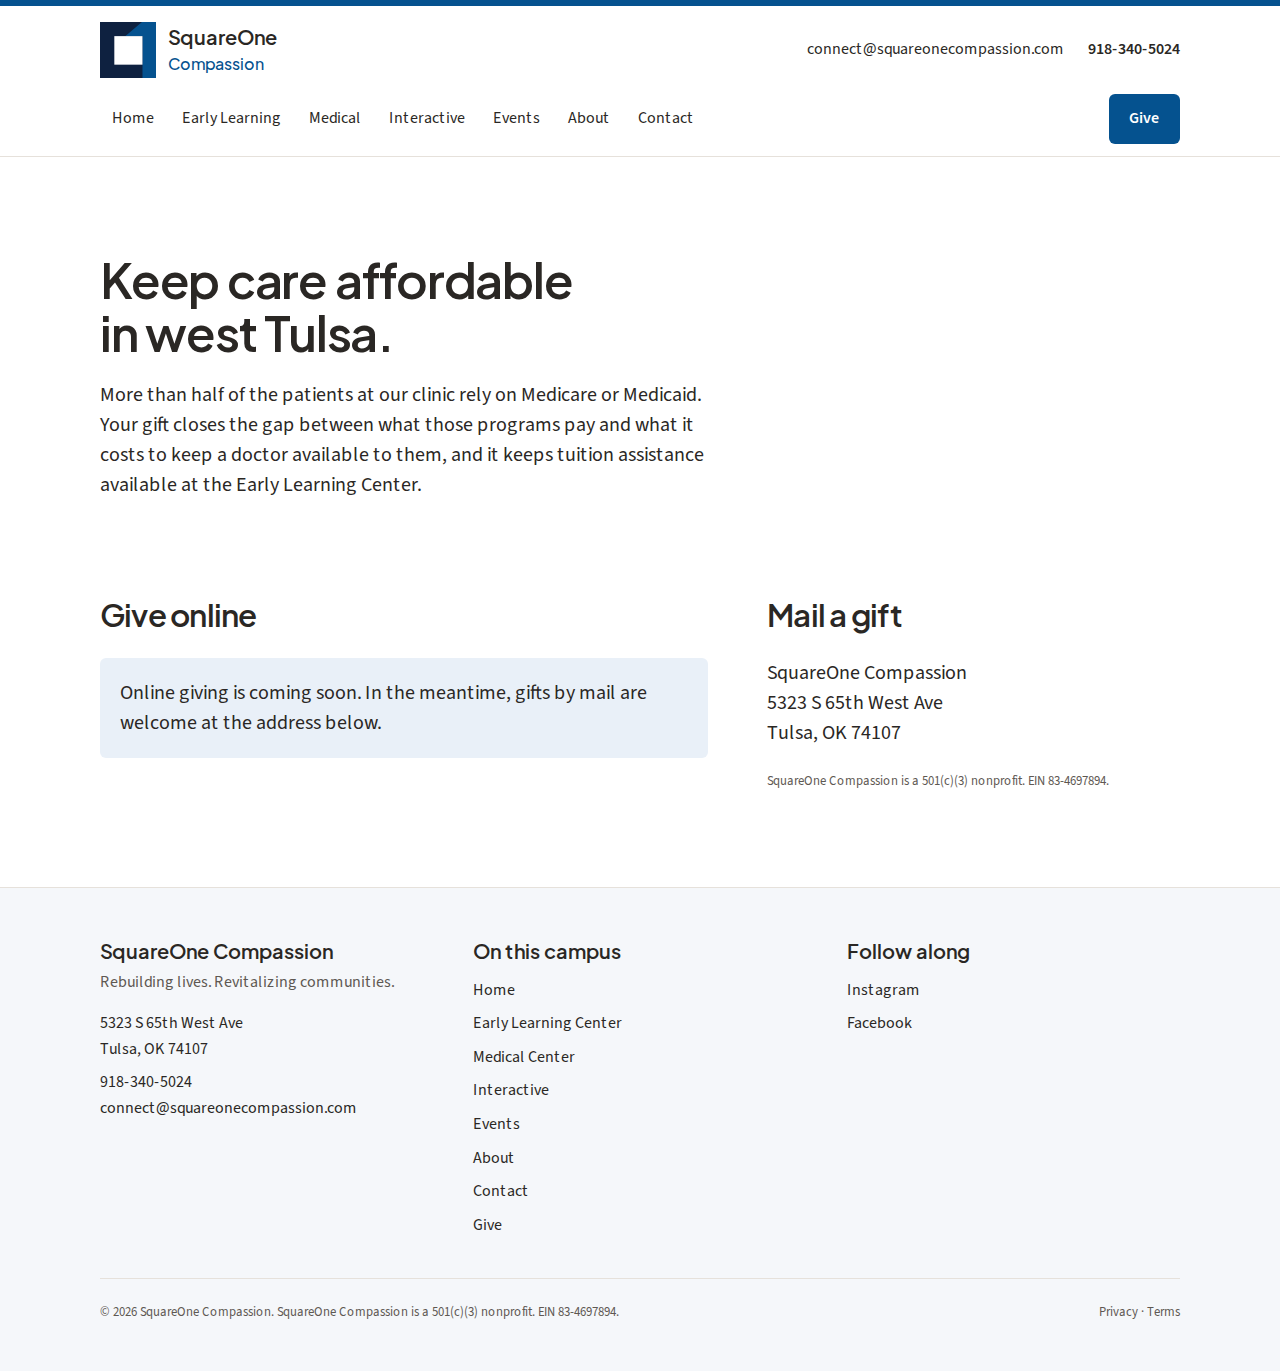
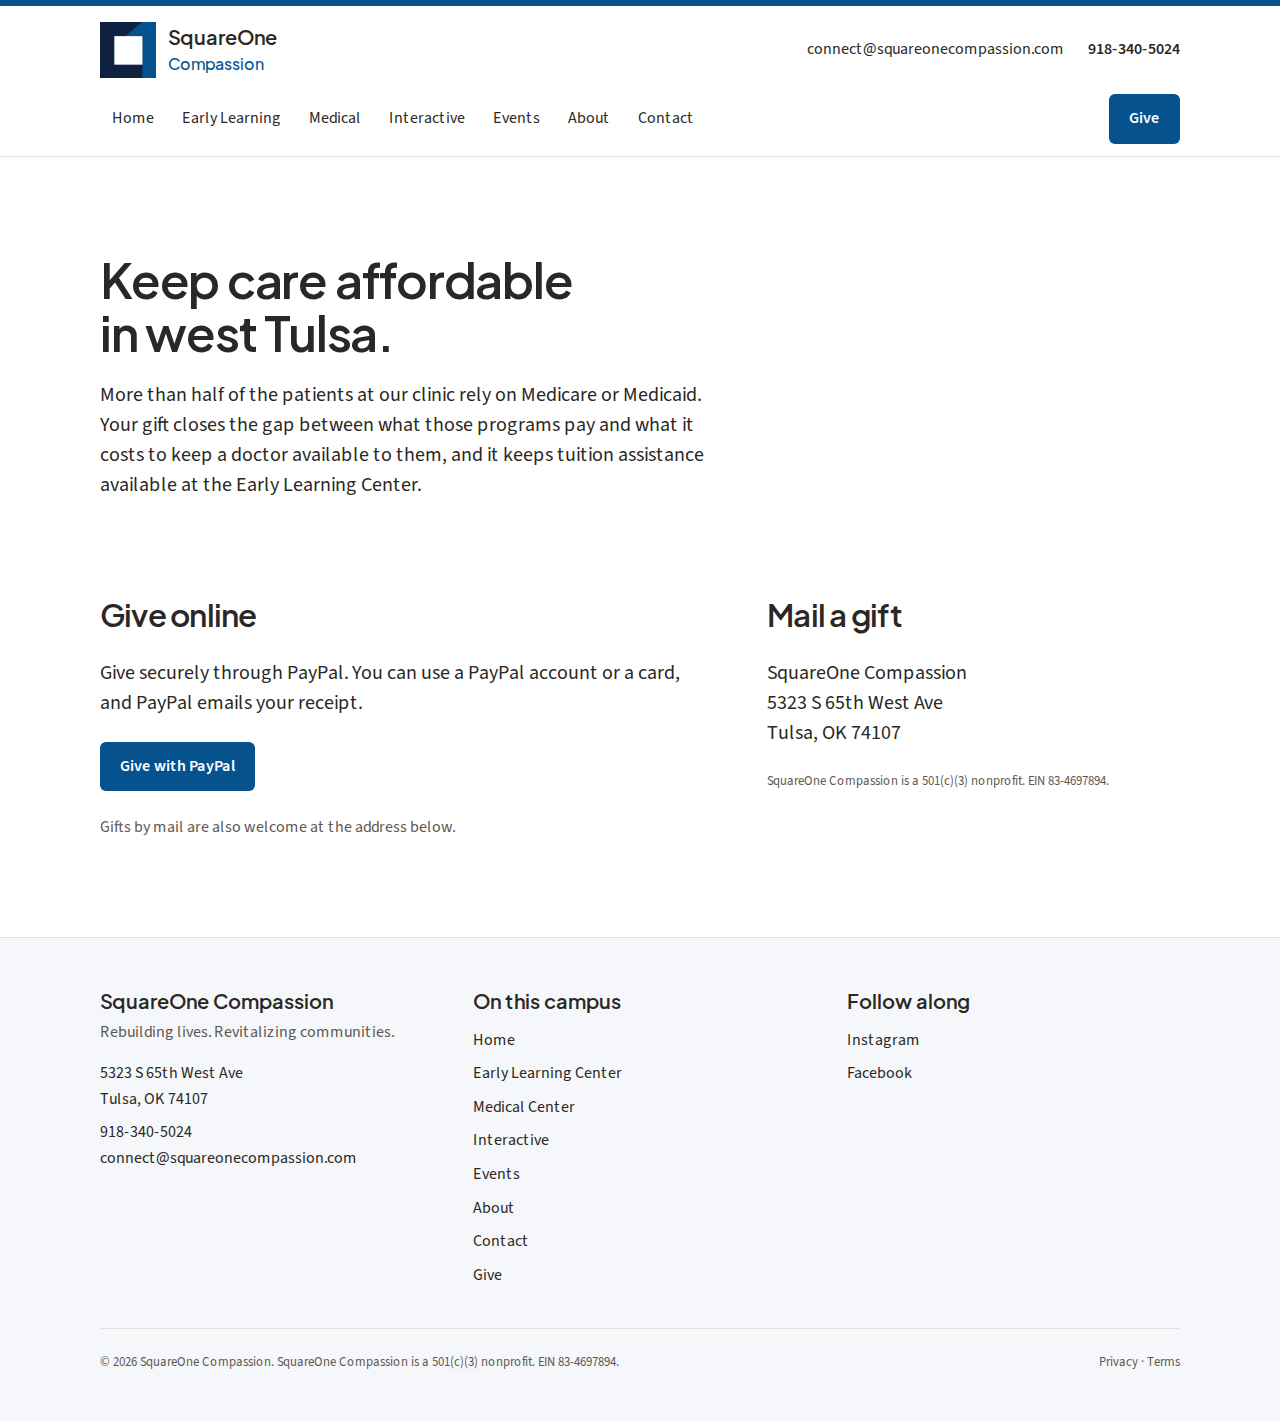
Add a Give with PayPal button to the Give page
Uses SquareOne's PayPal hosted payment link. Without Stripe keys the page
shows the PayPal button as the online giving option; with Stripe
configured, PayPal appears as a secondary link under the Stripe form.

Claude-Session: https://claude.ai/code/session_01Dy1NBE1CDjARVuM4emY1ru

diff --git a/app/give/page.tsx b/app/give/page.tsx
@@ -22,9 +22,25 @@ export default function GivePage() {
             <h2 className="text-2xl">Give online</h2>
             <div className="mt-6">
               {online ? (
-                <DonateForm />
+                <>
+                  <DonateForm />
+                  <p className="mt-8 text-muted">
+                    Prefer PayPal?{' '}
+                    <a href={ORG.paypalUrl} className="link" rel="noopener">
+                      Give with PayPal
+                    </a>
+                  </p>
+                </>
               ) : (
-                <p className="max-w-prose rounded-md bg-accent-soft p-5 text-lg">Online giving is coming soon. In the meantime, gifts by mail are welcome at the address below.</p>
+                <div className="max-w-prose">
+                  <p className="text-lg">Give securely through PayPal. You can use a PayPal account or a card, and PayPal emails your receipt.</p>
+                  <p className="mt-6">
+                    <a href={ORG.paypalUrl} className="btn-primary" rel="noopener">
+                      Give with PayPal
+                    </a>
+                  </p>
+                  <p className="mt-6 text-muted">Gifts by mail are also welcome.</p>
+                </div>
               )}
             </div>
           </div>

diff --git a/lib/site.ts b/lib/site.ts
@@ -29,6 +29,8 @@ export const ORG = {
   // Form 990 filings by EIN. ProPublica's Nonprofit Explorer lists every year and updates itself as the IRS releases new filings.
   financialsUrl: 'https://projects.propublica.org/nonprofits/organizations/834697894',
   irsSearchUrl: 'https://apps.irs.gov/app/eos/',
+  // PayPal hosted payment link (public; only lets people send money to SquareOne).
+  paypalUrl: 'https://www.paypal.com/ncp/payment/ZNYFBGZVG3V3G',
   instagram: 'https://instagram.com/squareonecompassion',
   facebook: 'https://facebook.com/squareonecompassion',
 }

diff --git a/CONFIRM.md b/CONFIRM.md
@@ -20,7 +20,7 @@ See `.env.example`. Without these:
 - `SUPABASE_URL` + `SUPABASE_SERVICE_ROLE_KEY`: contact and enrollment forms return a "not available" error. Run `supabase/migrations/0001_forms.sql` and `0002_donations.sql` in that project first.
 - `RESEND_API_KEY` + `RESEND_FROM`: submissions are stored but no notification email is sent.
 - `INTERACTIVE_SUPABASE_URL` + `INTERACTIVE_SUPABASE_ANON_KEY`: "What's on the floor" and the Events room list are hidden and only the four static tiles show. RLS in the app already allows anon reads of active facilities and packages, so no policy change is needed.
-- `STRIPE_SECRET_KEY` + `STRIPE_WEBHOOK_SECRET`: `/give` shows the "Online giving is coming soon" fallback. Webhook endpoint: `/api/stripe/webhook`, event `checkout.session.completed`.
+- `STRIPE_SECRET_KEY` + `STRIPE_WEBHOOK_SECRET`: without them, `/give` shows the PayPal button (live) instead of the Stripe form. PayPal gifts are not recorded in this site's database and get PayPal's receipt rather than ours. Webhook endpoint: `/api/stripe/webhook`, event `checkout.session.completed`.
 - `NEXT_PUBLIC_INTERACTIVE_APP_URL`: defaults to `https://square-one-interactive.vercel.app`.
 
 ## From the Interactive brief (docs-source/interactive-brief.pdf)

diff --git a/content/COPY.md b/content/COPY.md
@@ -314,7 +314,9 @@ Tulsa, OK 74107
 
 **Thank-you page:** Thank you. Your gift is already at work on our campus. A receipt is on its way to your inbox.
 
-**Fallback when Stripe is not configured:** Online giving is coming soon. In the meantime, gifts by mail are welcome at the address below.
+**PayPal (live now):** Give securely through PayPal. You can use a PayPal account or a card, and PayPal emails your receipt. Button: Give with PayPal → https://www.paypal.com/ncp/payment/ZNYFBGZVG3V3G. Gifts by mail are also welcome.
+
+When Stripe is configured, the Stripe form shows first and PayPal appears beneath it as "Prefer PayPal? Give with PayPal."
 
 ---
 
